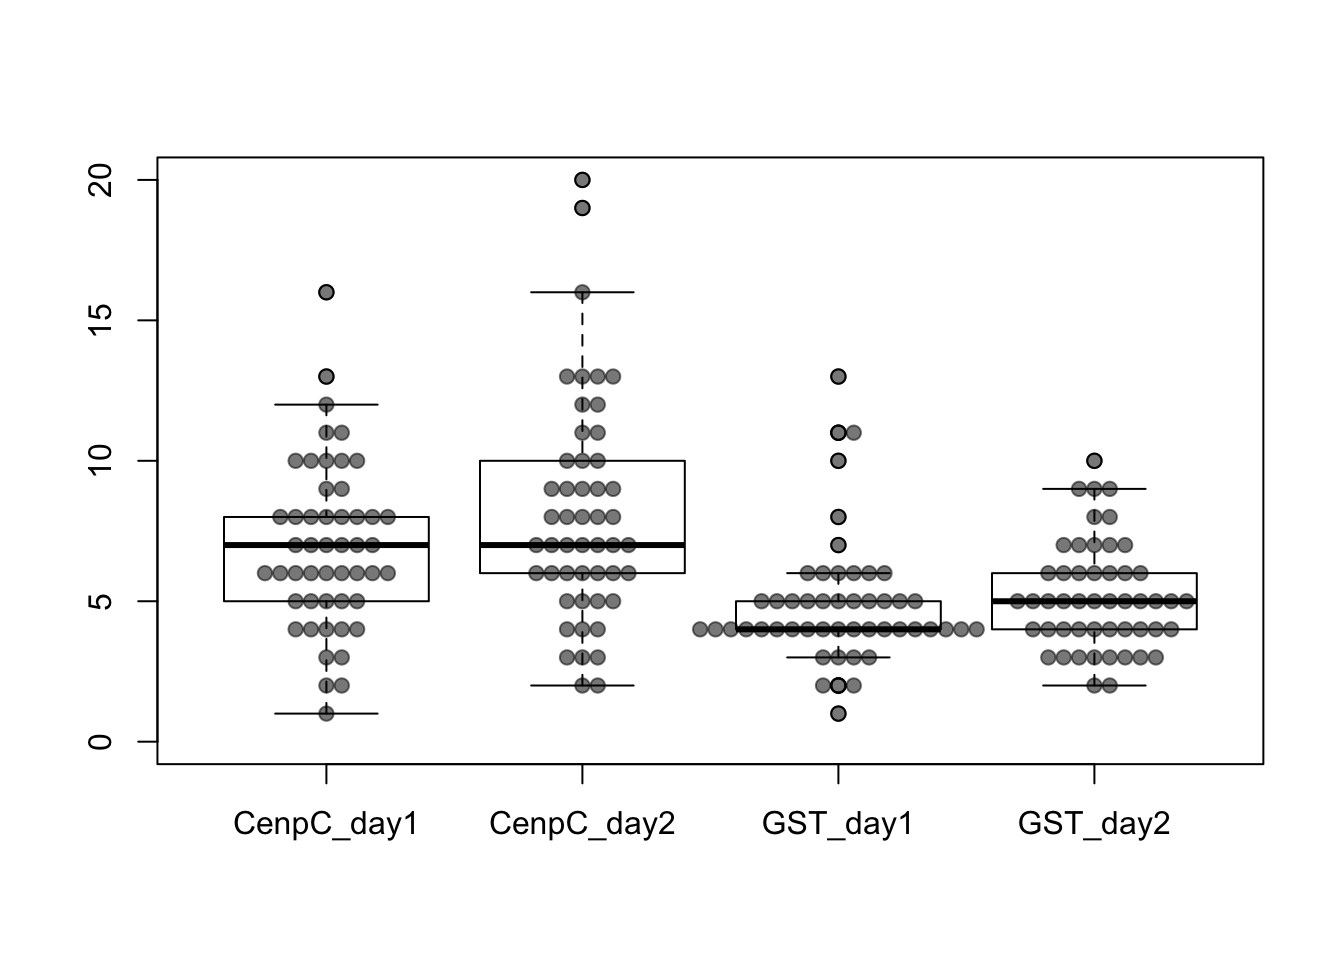
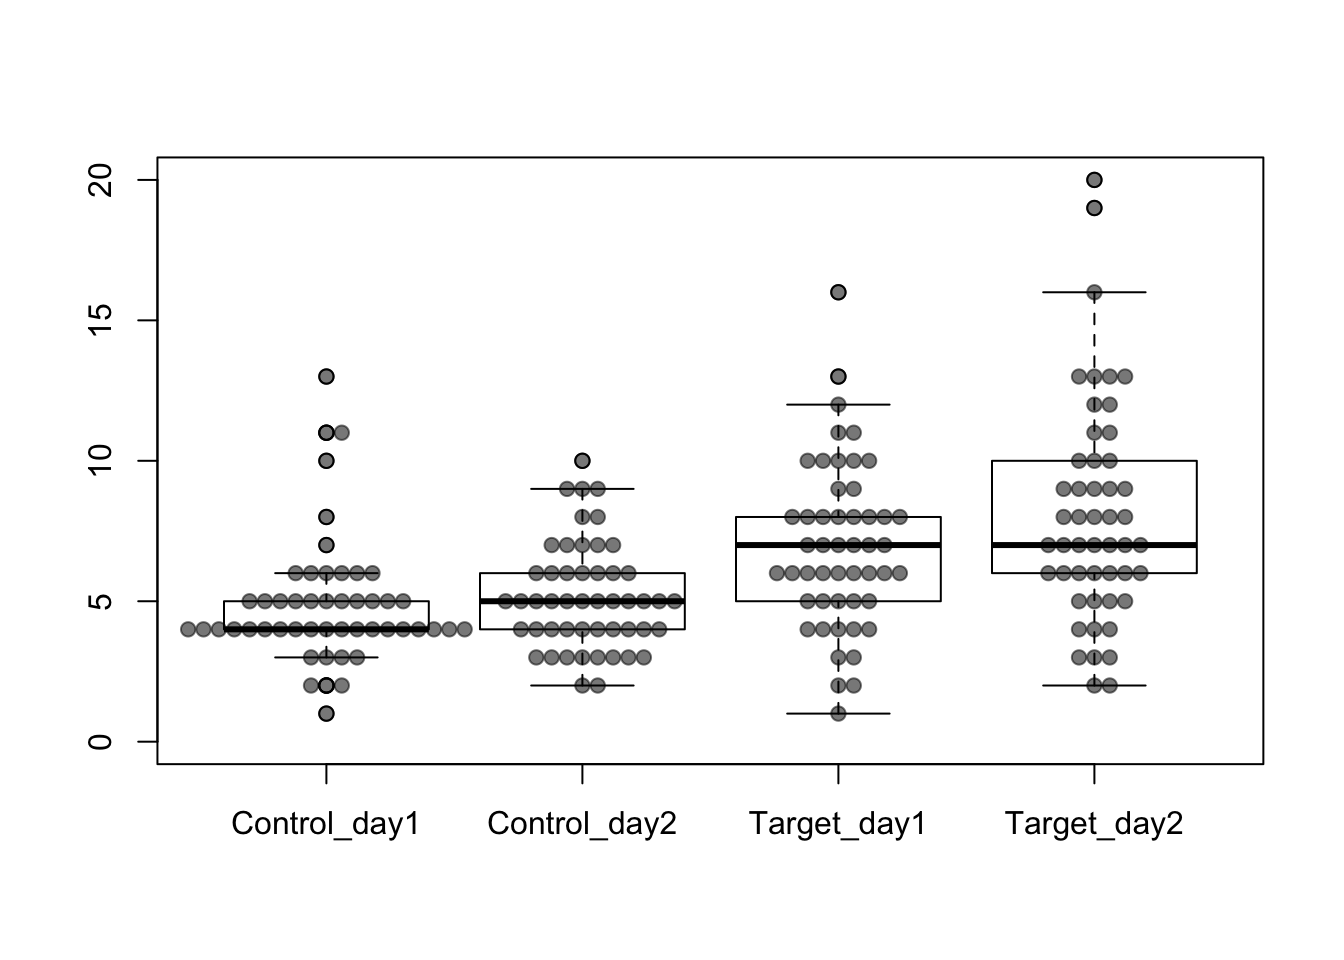
hide RNAi name

diff --git a/rmd_GenMixEffMod.html b/rmd_GenMixEffMod.html
@@ -329,38 +329,38 @@ a {
 <ul>
 <li>cells were stained for centromeric marker</li>
 <li>outcome: number of centromeric clusters (counts)</li>
-<li>conditions: CenpC vs. GST RNAi</li>
+<li>conditions: Target vs. Control RNAi</li>
 <li>replicate: experimental day</li>
 <li>4 microscopy slides in total</li>
 <li>cells are not independent on the same slide</li>
 </ul>
 <pre class="r"><code># insert data
 dat &lt;- data.frame(experiment = rep(c(&quot;day2&quot;, &quot;day2&quot;, &quot;day2&quot;, &quot;day2&quot;, &quot;day2&quot;, &quot;day2&quot;, &quot;day2&quot;, &quot;day2&quot;, &quot;day2&quot;, &quot;day2&quot;, &quot;day2&quot;, &quot;day2&quot;, &quot;day2&quot;, &quot;day2&quot;, &quot;day2&quot;, &quot;day2&quot;, &quot;day2&quot;, &quot;day2&quot;, &quot;day2&quot;, &quot;day2&quot;, &quot;day2&quot;, &quot;day2&quot;, &quot;day2&quot;, &quot;day2&quot;, &quot;day2&quot;, &quot;day2&quot;, &quot;day2&quot;, &quot;day2&quot;, &quot;day2&quot;, &quot;day2&quot;, &quot;day2&quot;, &quot;day2&quot;, &quot;day2&quot;, &quot;day2&quot;, &quot;day2&quot;, &quot;day2&quot;, &quot;day2&quot;, &quot;day2&quot;, &quot;day2&quot;, &quot;day2&quot;, &quot;day2&quot;, &quot;day2&quot;, &quot;day2&quot;, &quot;day2&quot;, &quot;day2&quot;, &quot;day2&quot;, &quot;day2&quot;, &quot;day2&quot;, &quot;day2&quot;, &quot;day2&quot;, &quot;day1&quot;, &quot;day1&quot;, &quot;day1&quot;, &quot;day1&quot;, &quot;day1&quot;, &quot;day1&quot;, &quot;day1&quot;, &quot;day1&quot;, &quot;day1&quot;, &quot;day1&quot;, &quot;day1&quot;, &quot;day1&quot;, &quot;day1&quot;, &quot;day1&quot;, &quot;day1&quot;, &quot;day1&quot;, &quot;day1&quot;, &quot;day1&quot;, &quot;day1&quot;, &quot;day1&quot;, &quot;day1&quot;, &quot;day1&quot;, &quot;day1&quot;, &quot;day1&quot;, &quot;day1&quot;, &quot;day1&quot;, &quot;day1&quot;, &quot;day1&quot;, &quot;day1&quot;, &quot;day1&quot;, &quot;day1&quot;, &quot;day1&quot;, &quot;day1&quot;, &quot;day1&quot;, &quot;day1&quot;, &quot;day1&quot;, &quot;day1&quot;, &quot;day1&quot;, &quot;day1&quot;, &quot;day1&quot;, &quot;day1&quot;, &quot;day1&quot;, &quot;day1&quot;, &quot;day1&quot;, &quot;day1&quot;, &quot;day1&quot;, &quot;day1&quot;, &quot;day1&quot;, &quot;day1&quot;, &quot;day1&quot;),2),
-                 RNAi = rep(c(&quot;GST&quot;, &quot;CenpC&quot;), each = 100),
+                 RNAi = rep(c(&quot;Control&quot;, &quot;Target&quot;), each = 100),
                  counts = c(6, 6, 4, 6, 3, 5, 10, 9, 5, 4, 8, 4, 9, 7, 7, 2, 6, 9, 4, 3, 5, 4, 4, 2, 8, 4, 5, 6, 3, 7, 7, 4, 6, 3, 3, 3, 7, 5, 5, 4, 5, 5, 5, 6, 5, 3, 3, 4, 5, 5, 2, 3, 4, 4, 4, 7, 5, 4, 6, 4, 5, 4, 4, 5, 4, 4, 5, 2, 5, 4, 5, 4, 6, 10, 5, 6, 4, 11, 3, 13, 3, 6, 3, 5, 5, 4, 4, 4, 4, 6, 8, 6, 4, 11, 5, 4, 5, 1, 2, 4, 16, 6, 9, 7, 11, 12, 6, 3, 7, 8, 8, 12, 7, 9, 5, 9, 5, 10, 7, 6, 7, 19, 3, 13, 7, 6, 13, 8, 8, 11, 7, 13, 10, 6, 4, 13, 3, 4, 2, 10, 6, 8, 6, 9, 9, 5, 4, 20, 2, 5, 7, 5, 10, 4, 7, 5, 6, 3, 4, 7, 9, 8, 16, 6, 10, 8, 5, 6, 4, 11, 6, 2, 6, 8, 11, 6, 5, 8, 8, 7, 10, 9, 7, 4, 6, 8, 2, 10, 7, 8, 3, 4, 10, 13, 6, 12, 8, 1, 5, 6))
 
 # group for each slide
 dat$slide &lt;- factor(paste(dat$RNAi, dat$experiment, sep = &quot;_&quot;))
 
 # relevel RNAi
-dat$RNAi &lt;- relevel(dat$RNAi, ref = &quot;GST&quot;)
+dat$RNAi &lt;- relevel(dat$RNAi, ref = &quot;Control&quot;)
 
 # check factor levels
 str(dat)</code></pre>
 <pre><code>## &#39;data.frame&#39;:    200 obs. of  4 variables:
 ##  $ experiment: Factor w/ 2 levels &quot;day1&quot;,&quot;day2&quot;: 2 2 2 2 2 2 2 2 2 2 ...
-##  $ RNAi      : Factor w/ 2 levels &quot;GST&quot;,&quot;CenpC&quot;: 1 1 1 1 1 1 1 1 1 1 ...
+##  $ RNAi      : Factor w/ 2 levels &quot;Control&quot;,&quot;Target&quot;: 1 1 1 1 1 1 1 1 1 1 ...
 ##  $ counts    : num  6 6 4 6 3 5 10 9 5 4 ...
-##  $ slide     : Factor w/ 4 levels &quot;CenpC_day1&quot;,&quot;CenpC_day2&quot;,..: 4 4 4 4 4 4 4 4 4 4 ...</code></pre>
+##  $ slide     : Factor w/ 4 levels &quot;Control_day1&quot;,..: 2 2 2 2 2 2 2 2 2 2 ...</code></pre>
 <pre class="r"><code># simple summary
 summary(dat)</code></pre>
-<pre><code>##  experiment    RNAi         counts              slide   
-##  day1:100   GST  :100   Min.   : 1.000   CenpC_day1:50  
-##  day2:100   CenpC:100   1st Qu.: 4.000   CenpC_day2:50  
-##                         Median : 6.000   GST_day1  :50  
-##                         Mean   : 6.275   GST_day2  :50  
-##                         3rd Qu.: 8.000                  
-##                         Max.   :20.000</code></pre>
+<pre><code>##  experiment      RNAi         counts                slide   
+##  day1:100   Control:100   Min.   : 1.000   Control_day1:50  
+##  day2:100   Target :100   1st Qu.: 4.000   Control_day2:50  
+##                           Median : 6.000   Target_day1 :50  
+##                           Mean   : 6.275   Target_day2 :50  
+##                           3rd Qu.: 8.000                    
+##                           Max.   :20.000</code></pre>
 <hr />
 </div>
 <div id="data-visualization" class="section level1">
@@ -459,10 +459,10 @@ summary(glmm)</code></pre>
 ## Fixed effects: counts ~ RNAi 
 ##                 Value  Std.Error  DF  t-value p-value
 ## (Intercept) 1.6174061 0.04919156 196 32.87975  0.0000
-## RNAiCenpC   0.3988294 0.06472175   2  6.16222  0.0253
+## RNAiTarget  0.3988294 0.06472175   2  6.16222  0.0253
 ##  Correlation: 
-##           (Intr)
-## RNAiCenpC -0.76 
+##            (Intr)
+## RNAiTarget -0.76 
 ## 
 ## Standardized Within-Group Residuals:
 ##        Min         Q1        Med         Q3        Max 
@@ -479,7 +479,7 @@ as.numeric(c(exp(fixed.effects(glmm))[1],
              exp(fixed.effects(glmm))[1] * exp(fixed.effects(glmm))[2]))</code></pre>
 <pre><code>## [1] 5.04 7.51</code></pre>
 <ul>
-<li>Conclusion: CenpC RNAi significantly increases the number of centromeric clusters</li>
+<li>Conclusion: Target RNAi significantly increases the number of centromeric clusters</li>
 <li>Mean difference: ~2.5, p-value: ~0.03, n of experiments: 2, n of cells: 200</li>
 </ul>
 <hr />

diff --git a/README.html b/README.html
@@ -305,7 +305,7 @@ $(document).ready(function () {
 
 <div id="project-website" class="section level2">
 <h2>Project Website:</h2>
-<p><a href="https://tschauer.github.io/" class="uri">https://tschauer.github.io/</a></p>
+<p><a href="https://tschauer.github.io/index.html" class="uri">https://tschauer.github.io/index.html</a></p>
 </div>
 
 

diff --git a/index.html b/index.html
@@ -302,7 +302,7 @@ $(document).ready(function () {
 
 <h1 class="title toc-ignore">A Collection of Statistical Methods in Biology</h1>
 <h4 class="author">by tschauer</h4>
-<h4 class="date">29 September, 2019</h4>
+<h4 class="date">30 September, 2019</h4>
 
 </div>
 
